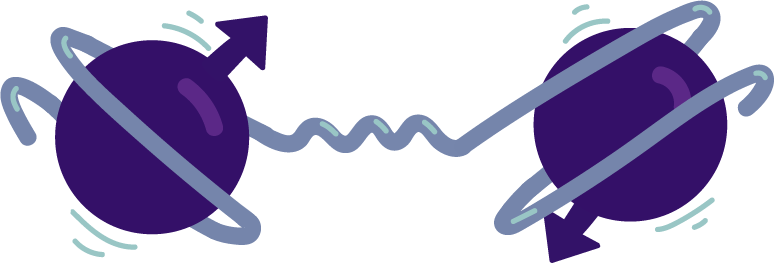
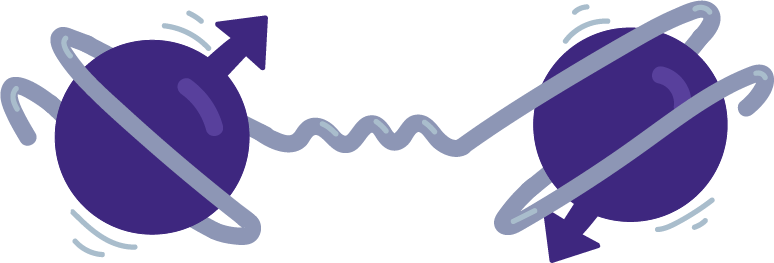
color and font change

diff --git a/index.html b/index.html
@@ -75,15 +75,14 @@
         <div id="title">
             <div id="title-content">
                 <h1 class="titlefade">Ellen Guan</h1>
-                <br>
                 <p class="titlefade second">Engineer ◆ Researcher ◆ Dreamer ◆ Artist</p>
                 <p class="titlefade third">Welcome to my universe!</p>
                 <br>
                 <span>
-                    <p class="titlefade fourth titlelink" onclick="scrollWindow('bio')">About</p>
-                    <p class="titlefade fourth titlelink" onclick="scrollWindow('work')">Work</p>
-                    <p class="titlefade fourth titlelink" onclick="scrollWindow('websitesBr')">Projects</p>
-                    <p class="titlefade fourth titlelink" onclick="goTo('art.html')">Art</p>
+                    <p class="titlefade fourth titlelink" id="aboutButton" onclick="scrollWindow('bio')">About</p>
+                    <p class="titlefade fourth titlelink" id="workButton" onclick="scrollWindow('work')">Work</p>
+                    <p class="titlefade fourth titlelink" id="projectsButton" onclick="scrollWindow('websitesBr')">Projects</p>
+                    <p class="titlefade fourth titlelink" id="artButton" onclick="goTo('art.html')">Art</p>
                 </span>
 
                 <!-- <h1 class="titlefade">Hey, I'm Ellen!</h1>
@@ -98,30 +97,30 @@
                     <img src="pictures/me.jpg" id="me" class="fade">
                 </div>
                 <div id="bio-content">
-                    <h1 class="fade slideLeft">About Me</h1>
+                    <h1 class="fade   ">About Me</h1>
                     <div id="bio-text" class="texts">
-                        <p class="fade slideLeft text">I am currently an undergraduate student at <b>Princeton University</b> studying <b>Computer and Electrical Engineering</b>, with a passion for <b>fullstack and frontend web development.</b></p>
-                        <p class="fade slideLeft text">My current <b>research interests</b> include quantum computing, information science, and optics. </p>
-                        <p class="fade slideLeft text">In my free time, I enjoy experimenting with all things art and design!</p>
+                        <p class="fade    text">I am currently an undergraduate student at <b>Princeton University</b> studying <b>Computer and Electrical Engineering</b>, with a passion for <b>fullstack and frontend web development.</b></p>
+                        <p class="fade    text">My current <b>research interests</b> include quantum computing, information science, and optics. </p>
+                        <p class="fade    text">In my free time, I enjoy experimenting with all things art and design!</p>
                     </div>
                 </div>
             </div>
         </div>
 
         <div id="work" class="transparent">
-            <h1 class="fade slideUp">Highlighted Work Experiences</h1>
+            <h1 class="fade  ">Highlighted Work Experiences</h1>
             <br>
             <div id="timeline">
                 <div class="container left">
                     <div class="content">
                         <div>
-                            <h3 class="fade slideUp">Summer 2025</h3>
-                            <h2 class="fade slideUp">Girls Who Code Teaching Assistant</h2>
-                            <img src="pictures/girlswhocode.png" id="girlswhocode" class="fade slideUp">
+                            <h3 class="fade  ">Summer 2025</h3>
+                            <h2 class="fade  ">Girls Who Code Teaching Assistant</h2>
+                            <img src="pictures/girlswhocodeOLD.png" id="girlswhocode" class="fade  ">
                             <ul class="diamond texts">
-                                <li class="fade slideUp text"> Taught game design principles and fundamentals during the 2025 Girls Who Code Summer Immersion Program </li>
-                                <li class="fade slideUp text"> Lead and mentored groups of high school girls through their development of learning the basics of programming</li>
-                                <li class="fade slideUp text"> Inspires students as a role model, encouraging sisterhood, and showcasing how their projects can make a difference in the world</li>
+                                <li class="fade   text"> Taught game design principles and fundamentals during the 2025 Girls Who Code Summer Immersion Program </li>
+                                <li class="fade   text"> Lead and mentored groups of high school girls through their development of learning the basics of programming</li>
+                                <li class="fade   text"> Inspires students as a role model, encouraging sisterhood, and showcasing how their projects can make a difference in the world</li>
                             </ul>
                         </div>
                     </div>
@@ -129,12 +128,12 @@
                 <div class="container right">
                     <div class="content">
                         <div>
-                            <h3 class="fade slideUp">2023-2024</h3>
-                            <h2 class="fade slideUp">Quantum Mechanics Researcher at Argonne National Laboratory</h2>
-                            <img src="pictures/entanglement.png" id="quantum" class="fade slideUp">
+                            <h3 class="fade  ">2023-2024</h3>
+                            <h2 class="fade  ">Quantum Mechanics Researcher at Argonne National Laboratory</h2>
+                            <img src="pictures/entanglementOLD.png" id="quantum" class="fade  ">
                             <ul class="diamond texts">
-                                <li class="fade slideUp text"> Analyzed multiple research papers on quantum entanglement and the geometric measurement of entanglement</li>
-                                <li class="fade slideUp text"> Wrote a literature review about the history of the measurement and how it is understood for arbitrary two-qubit pure states, two-qubit mixed states, and certain multipartite mixed states.</li>
+                                <li class="fade   text"> Analyzed multiple research papers on quantum entanglement and the geometric measurement of entanglement</li>
+                                <li class="fade   text"> Wrote a literature review about the history of the measurement and how it is understood for arbitrary two-qubit pure states, two-qubit mixed states, and certain multipartite mixed states.</li>
                             </ul>
                             
                         </div>
@@ -143,13 +142,13 @@
                 <div class="container left">
                     <div class="content">
                         <div>
-                            <h3 class="fade slideUp">2022-2023</h3>
-                            <h2 class="fade slideUp">Particle Physics Researcher at Argonne National Laboratory</h2>
-                            <img src="pictures/pp.png" id="pp" class="fade slideUp">
+                            <h3 class="fade  ">2022-2023</h3>
+                            <h2 class="fade  ">Particle Physics Researcher at Argonne National Laboratory</h2>
+                            <img src="pictures/ppOLD.png" id="pp" class="fade  ">
                             <ul class="diamond texts">
-                                <li class="fade slideUp text"> Developed Python algorithms to simulate various factors affecting the observed seasonal variation in multiple-muon events</li>
-                                <li class="fade slideUp text"> Created a large-scale data visualization program using the Matplotlib library to analyze and compare simulation results with experimental data from particle accelerators</li>
-                                <li class="fade slideUp text"> My research paper can be found <a href="https://arxiv.org/abs/2310.10009" target="_blank">here</a></li>
+                                <li class="fade   text"> Developed Python algorithms to simulate various factors affecting the observed seasonal variation in multiple-muon events</li>
+                                <li class="fade   text"> Created a large-scale data visualization program using the Matplotlib library to analyze and compare simulation results with experimental data from particle accelerators</li>
+                                <li class="fade   text"> My research paper can be found <a href="https://arxiv.org/abs/2310.10009" target="_blank">here</a></li>
                             </ul>
                         </div>
                     </div>
@@ -158,7 +157,7 @@
         </div>
 
         <div id="skills" class="solid">
-            <h1 class="fade slideLeft">My Skills</h1>
+            <h1 class="fade   ">My Skills</h1>
             <div class="skills">
                 <i class="fa-brands fa-python skill fade " id="skill1"></i>
                 <i class="fa-brands fa-java skill fade " id="skill2"></i>
@@ -180,7 +179,7 @@
 
         <div id="websites" class="transparent">
             <br id="websitesBr">
-            <h1 id="websitesTitle" class="fade slideUp">Websites I've Created</h1>
+            <h1 id="websitesTitle" class="fade  ">Websites I've Created</h1>
 
             <div id="container">
                 <ul id="cards">
@@ -195,11 +194,11 @@
                                     <div class="card-actual-content-inner">
                                         <h2 class="fade">Be HAAPI, Eat Noodles</h2>
                                         <div class=" texts">
-                                            <p class="fade slideUp text"> Simulates an online AAPI noodle shop experience for the Future Business Leaders of America (FBLA) event Website Design</p>
-                                            <p class="fade slideUp text"> Created with HTML, CSS, JavaScript, PHP, and SQL</p>
-                                            <p class="fade slideUp text"> Won 10th place during the 2023 FBLA National Leadership Conference</p>
+                                            <p class="fade   text"> Simulates an online AAPI noodle shop experience for the Future Business Leaders of America (FBLA) event Website Design</p>
+                                            <p class="fade   text"> Created with HTML, CSS, JavaScript, PHP, and SQL</p>
+                                            <p class="fade   text"> Won 10th place during the 2023 FBLA National Leadership Conference</p>
                                         </div>
-                                        <p class="fade slideUp last">Click on the image to visit the website!</p>
+                                        <p class="fade   last">Click on the image to visit the website!</p>
                                     </div>
                                 </div> 
                             </div>
@@ -215,11 +214,11 @@
                                 <div class="card-actual-content">
                                     <h2 class="fade">Her Art of Theory</h2>
                                     <div class=" texts">
-                                        <p class="fade slideUp text"> A platform spreading awareness on the gender gap in STEM jobs</p>
-                                        <p class="fade slideUp text"> Created during the 2022 Girls Who Code Summer Immersion Program on Website Development</p>
-                                        <p class="fade slideUp text"> Developed using HTML, CSS, and JavaScript</p>
+                                        <p class="fade   text"> A platform spreading awareness on the gender gap in STEM jobs</p>
+                                        <p class="fade   text"> Created during the 2022 Girls Who Code Summer Immersion Program on Website Development</p>
+                                        <p class="fade   text"> Developed using HTML, CSS, and JavaScript</p>
                                     </div>
-                                    <p class="fade slideUp last">Click on the image to visit the website!</p>
+                                    <p class="fade   last">Click on the image to visit the website!</p>
                                 </div>
                             </div>
                         </div>
@@ -233,11 +232,11 @@
                                 <div class="card-actual-content">
                                     <h2 class="fade">What Major Are You?</h2>
                                     <div class=" texts">
-                                        <p class="fade slideUp text"> A for-fun personality quiz</p>
-                                        <p class="fade slideUp text"> Created during the 2022 Girls Who Code Summer Immersion Program on Website Development</p>
-                                        <p class="fade slideUp text"> Developed using HTML, CSS, and JavaScript</p>
+                                        <p class="fade   text"> A for-fun personality quiz</p>
+                                        <p class="fade   text"> Created during the 2022 Girls Who Code Summer Immersion Program on Website Development</p>
+                                        <p class="fade   text"> Developed using HTML, CSS, and JavaScript</p>
                                     </div>
-                                    <p class="fade slideUp last">Click on the image to visit the website!</p>
+                                    <p class="fade   last">Click on the image to visit the website!</p>
                                 </div>
                             </div>
                         </div>
@@ -248,7 +247,7 @@
 
         <div id="art" class="solid">
             <h1 class="fade">My Art</h1>
-            <a href="art.html" class="fade">Click here to view a small snapshot of my creations! →</a>
+            <a onclick="goTo('art.html')" class="fade">Click here to view a small snapshot of my creations! →</a>
         </div>
 
         <div id="connect" class="transparent">

diff --git a/style.css b/style.css
@@ -10,11 +10,16 @@
     /*variables*/
     --pointer: url(pictures/pointer.png), pointer;
 
-    --purple1: #360568;
-    --purple2: #5b2a86;
-    --blue1: #7785ac;
-    --blue2: #9ac6c5;
-    --green: #a5e6ba;
+    /* --purple1: #360568; */
+    --purple1: #060a40;
+    --purple2: #2a2c7d;
+    /* --purple2: #5b2a86; */
+    --blue1: #5d3ea5;
+    --blue2: #3d277f;
+    /* --blue1: #7785ac; */
+    /* --blue2: #9ac6c5; */
+    --green: #b0f8fa;
+    /* --green: #a5e6ba; */
 
     --fontFamily: "futura-pt", sans-serif;
 
@@ -50,8 +55,9 @@ a:hover {
 h1{
     /*font-family: "bd-colonius", sans-serif;*/
     font-size:350%;
-    font-family: "omnium", sans-serif;
-    font-weight: 700;
+    font-family: "zooja-pro", sans-serif;
+    /* font-family: "omnium", sans-serif; */
+    font-weight: 500;
 }
 
 h2, h3, p, ul, a {
@@ -181,7 +187,7 @@ ul.diamond {
     animation-delay: calc(var(--transitionDelayAll) * 3);
 }
 
-.fade.slideUp.last {
+.fade.last {
     animation-delay: calc(var(--transitionDelayAll) * 4);
 }
 
@@ -393,7 +399,7 @@ ul.diamond {
     z-index: 2;
     color: var(--green);
     font-size: 150%;
-    background-color:var(--blue1);
+    background-color:var(--purple2);
     padding: 1%;
     display: flex;
     justify-content: center;
@@ -401,8 +407,8 @@ ul.diamond {
 }
 
 #pauseButton:hover, #goHomeArrow:hover {
-    color: var(--blue2);
-    background-color: var(--purple2);
+    /* color: var(--blue2); */
+    background-color: var(--blue1);
     cursor: var(--pointer);
 }
 
@@ -418,7 +424,7 @@ ul.diamond {
     z-index: 2;
     color: var(--green);
     font-size: 150%;
-    background-color:var(--blue1);
+    background-color:var(--purple2);
     padding: 1%;
     display: flex;
     justify-content: center;
@@ -426,7 +432,7 @@ ul.diamond {
 
     visibility: hidden;
     opacity: 0;
-    transition: opacity .5s ease-in-out;
+    transition: all 0.5s ease-in-out;
 }
 #goHomeArrow.active {
     visibility: visible;
@@ -469,13 +475,13 @@ ul.diamond {
     position: fixed;
     top: 50%;
     left:50%;
-    background-color: var(--blue1);
+    background-color: var(--green);
     border-radius: 50%;
     z-index: -1;
     opacity: 0;
     animation-name: blinking;
     animation-iteration-count: infinite;
-
+    color:var(--green);
 }
 
 #stars .star:nth-child(1) {
@@ -570,6 +576,7 @@ ul.diamond {
     height: 100dvh;
     z-index: -1;
     overflow: hidden;
+    opacity:0.5;
 }
 
 .shootingStar {
@@ -578,7 +585,7 @@ ul.diamond {
     left:90%;
     width: 4px;
     height: 4px;
-    background-color: var(--blue1);
+    background-color: var(--green);
     border-radius: 50%;
     animation: shootingStar 3s linear infinite;
     opacity:0;
@@ -590,10 +597,10 @@ ul.diamond {
     top: 50%;
     width: 50px;
     height: 2px;
-    background-color: var(--blue1);
+    background-color: var(--green);
     transform-origin: left;
     transform: translateY(-50%);
-    background: linear-gradient(90deg, var(--blue1),transparent);
+    background: linear-gradient(90deg, var(--green),transparent);
 }
 
 .shootingStar:nth-child(2n)::before {
@@ -727,11 +734,11 @@ ul.diamond {
 #title .titlelink {
     padding:2%;
     margin: 1%;
-    background-color: var(--blue1);
+    background-color: var(--purple2);
 }
 
 #title .titlelink:hover {
-    background-color: var(--purple2);
+    background-color: var(--blue1);
     cursor:var(--pointer);
 }
 
@@ -856,7 +863,7 @@ ul.diamond {
 
     #timeline .content:hover {
         transform: scale(1.02, 1.02);
-        box-shadow: 5px 10px var(--blue2);
+        box-shadow: 5px 10px var(--purple2);
     }
 
 }
@@ -870,7 +877,7 @@ ul.diamond {
 }
 
 #timeline img {
-    width:100%;
+    width:80%;
     margin: auto;
     display:block;
 }
@@ -901,6 +908,10 @@ ul.diamond {
     /* Make all right containers behave like the left ones */
     #timeline .right {
         left: 0%;
+    }
+
+    #timeline img {
+        width: 100%;
     }
 
     #timeline #pp{
@@ -1067,7 +1078,7 @@ span p:hover {
 	--index: 2;
 }
 
-#card1, #card2 {
+#card1 {
     color:var(--purple1);
 }
 
@@ -1086,7 +1097,7 @@ span p:hover {
 }
 
 #card2 .card-content {
-    background-color: var(--blue2);
+    background-color: var(--blue1);
 }
 
 #card3 .card-content {
@@ -1119,7 +1130,7 @@ span p:hover {
   padding: 2px;
 }
 
-#websites #card3 .texts p:before {
+#websites #card3 .texts p:before, #websites #card2 .texts p:before {
   color: var(--green);
 }
 
@@ -1193,7 +1204,7 @@ span p:hover {
 
 #artTitle { 
     text-align: center;
-    color: #a5e6ba;
+    color: var(--green);
     padding:5%;
 }
 
